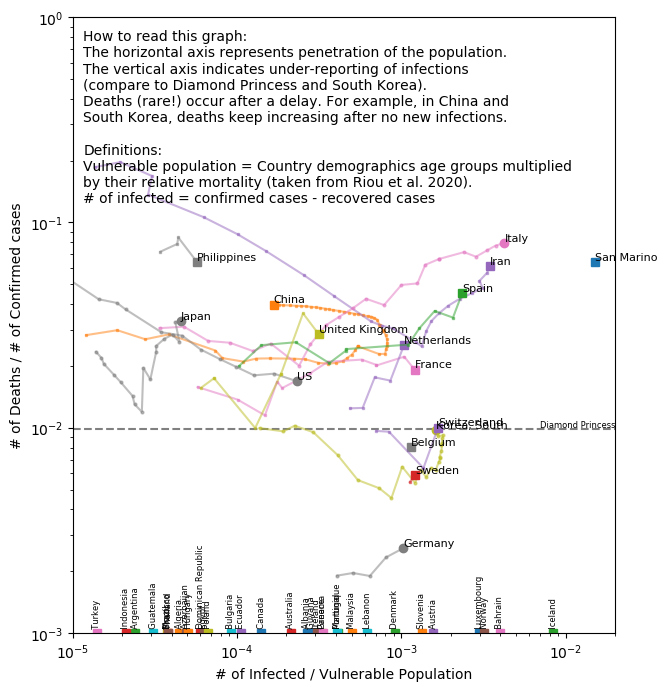
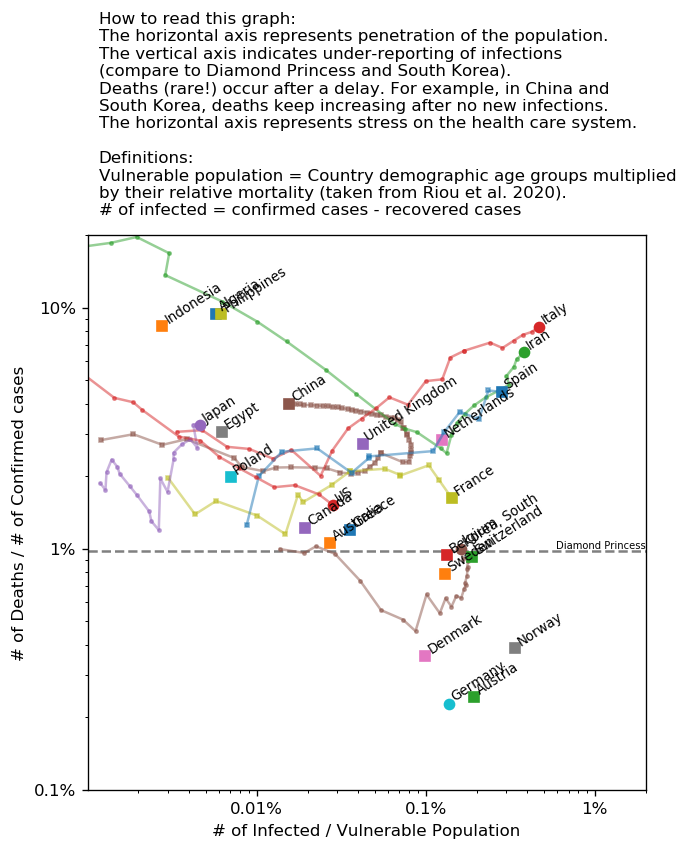
normalise better; beautifying

diff --git a/ratio.py b/ratio.py
@@ -60,14 +60,16 @@ pop = pandas.concat([
 
 beds = pandas.read_csv('UNdata_Export_hospitalbeds.csv')
 
+marked_countries = ['US', 'Germany', 'Japan', 'Italy', 'Korea, South', 'Iran']
+
 #print("countries:", sorted(set(pop["Country or Area"])))
 
-a = plt.figure(figsize=(7, 8))
+a = plt.figure(figsize=(6, 6))
 ax = a.gca()
-b = plt.figure(figsize=(7, 8))
+b = plt.figure(figsize=(6, 6))
 bx = b.gca()
 
-min_dead = 6
+#min_dead = 4
 
 print("per-country extraction:")
 print()
@@ -78,21 +80,21 @@ for (i, row1), (_, row2), (_, row3) in zip(d1.iterrows(), d2.iterrows(), d3.iter
 	timeseries_dead = np.array(row2[4:], dtype=int)
 	timeseries_recovered = np.array(row3[4:], dtype=int)
 	country = row1.name
-	if timeseries_dead.max() < 1:
-		#print("skipping", country, "not enough dead", timeseries_dead.max())
-		continue
 	pop_country = pop[pop["Country or Area"] == country_name_replacement.get(row1.name, row1.name)]
 	if len(pop_country) == 0: # or pop_country.Year.dtype.char == 'O':
 		print("skipping", country, "no population data")
 		continue
 	beds_country = beds[beds["Country or Area"] == country_name_replacement.get(row1.name, row1.name)]
 	year = pandas.to_numeric(beds_country["Year(s)"])
-	beds_recent = np.array(beds_country.Value[year == year.max()])
+	# from "number of beds per 10000 people" compute "number of beds per person":
+	beds_recent = np.array(beds_country.Value[year == year.max()]) / 10000
 	if len(beds_recent) == 0:
 		beds_recent = 0
+		#print("skipping", country, "no bed data")
+		#continue
 	else:
 		beds_recent = beds_recent[0]
-	
+
 	#if country not in ['US', 'Germany', 'Japan', 'Italy', 'Korea, South']:
 	#	continue
 	
@@ -102,99 +104,118 @@ for (i, row1), (_, row2), (_, row3) in zip(d1.iterrows(), d2.iterrows(), d3.iter
 		for ages in agegroups]
 	vulnerable_number = np.array(num_people) * agegroups_mortality
 	
-	print("%20s %4d %6d %14d %.2f%%" % (country, beds_recent, sum(timeseries_dead), 
+	print("%20s %6d %6d %14d %.2f%%" % (country, beds_recent, max(timeseries_dead), 
 		sum(num_people), sum(vulnerable_number) * 100 / sum(num_people)))
+	
+	# for small countries, require a higher number of dead, 
+	# otherwise the estimates are all over the place
+	min_dead = max(4,  1 * 2 * 100000 / sum(vulnerable_number))
+	
+	if timeseries_dead.max() < min_dead:
+		print("skipping", country, "not enough dead", timeseries_dead.max(), 1 * 2 * 100000 / sum(vulnerable_number))
+		continue
 	
 	timeseries_cases = timeseries_reported - timeseries_recovered
 	
 	mask = timeseries_dead >= min_dead
+	if not mask.any():
+		print("skipping", country, "not enough dead", timeseries_dead.max())
+	
 	#mask = np.logical_and(timeseries_dead >= 3, timeseries_reported / vulnerable_number.sum() > 1e-5)
 	x = timeseries_cases[mask] / vulnerable_number.sum()
 	y = timeseries_dead[mask] / timeseries_reported[mask]
 	if mask.any():
-		l, = ax.plot(x, y,
-			'o-' if country in ['US', 'Germany', 'Japan', 'Italy', 'Korea, South'] else 's-', ms=2,
-			label=country, alpha=0.5)
+		l, = ax.plot(x[-1], y[-1],
+			'o' if country in marked_countries else 's')
+		ax.text(x[-1], y[-1], country, va='bottom', ha='left', size=8, rotation=33)
+		if mask.sum() > 10:
+			ax.plot(x, y,
+				'o-' if country in marked_countries else 's-', ms=2,
+				label=country, alpha=0.5, color=l.get_color())
 	
-	if len(y) > 0:
-		ax.plot(x[-1], y[-1],
-			'o' if country in ['US', 'Germany', 'Japan', 'Italy', 'Korea, South'] else 's',
-			color=l.get_color())
-		ax.text(x[-1], y[-1], country, va='bottom', ha='left', size=8)
 	elif timeseries_cases[-1] / vulnerable_number.sum() > 1e-5:
 		ax.plot(timeseries_cases[-1] / vulnerable_number.sum(), 1e-3,
-			'o' if country in ['US', 'Germany', 'Japan', 'Italy', 'Korea, South'] else 's')
+			'o' if country in marked_countries else 's')
 		ax.text(timeseries_cases[-1] / vulnerable_number.sum(), 1e-3,
 			'  ' + country, va='bottom', ha='center', size=6, rotation=90)
 
 	x = timeseries_cases[mask] / vulnerable_number.sum() / beds_recent
 	y = timeseries_dead[mask] / timeseries_reported[mask]
 	if mask.any():
-		l, = bx.plot(x, y,
-			'o-' if country in ['US', 'Germany', 'Japan', 'Italy', 'Korea, South'] else 's-', ms=2,
-			label=country, alpha=0.5)
-	
-	if len(y) > 0:
-		bx.plot(x[-1], y[-1],
-			'o' if country in ['US', 'Germany', 'Japan', 'Italy', 'Korea, South'] else 's',
-			color=l.get_color())
+		l, = bx.plot(x[-1], y[-1],
+			'o' if country in marked_countries else 's',
+			)
 		bx.text(x[-1], y[-1], country, va='bottom', ha='left', size=8, rotation=33)
-	elif timeseries_cases[-1] / vulnerable_number.sum() / beds_recent > 1e-7:
+		if mask.sum() > 10:
+			bx.plot(x, y,
+				'o-' if country in marked_countries else 's-', ms=2,
+				label=country, alpha=0.5, color=l.get_color())
+	
+	elif timeseries_cases[-1] / vulnerable_number.sum() / beds_recent > 1e-3 or True:
 		bx.plot(timeseries_cases[-1] / vulnerable_number.sum() / beds_recent, 1e-3,
-			'o' if country in ['US', 'Germany', 'Japan', 'Italy', 'Korea, South'] else 's')
+			'o' if country in marked_countries else 's')
 		bx.text(timeseries_cases[-1] / vulnerable_number.sum() / beds_recent, 1e-3,
 			'  ' + country, va='bottom', ha='center', size=6, rotation=90)
 
 plt.sca(ax)
-ax.text(0.02, 0.98, """How to read this graph:
+ax.text(0.02, 1.0, """How to read this graph:
 The horizontal axis represents penetration of the population.
 The vertical axis indicates under-reporting of infections
 (compare to Diamond Princess and South Korea).
 Deaths (rare!) occur after a delay. For example, in China and 
 South Korea, deaths keep increasing after no new infections.
-
-Definitions:
-Vulnerable population = Country demographics age groups multiplied 
-by their relative mortality (taken from Riou et al. 2020).
-# of infected = confirmed cases - recovered cases
-""", va='top', ha='left', transform=ax.transAxes)
-plt.xlabel('# of Infected / Vulnerable Population')
-plt.ylabel('# of Deaths / # of Confirmed cases')
-plt.xscale('log')
-plt.yscale('log')
-plt.hlines(7/712, 1e-5, 2e-2, linestyles=['--'], color='gray')
-plt.text(2e-2, 7/712, 'Diamond Princess', ha='right', va='bottom', size=6)
-plt.ylim(1e-3, 1)
-plt.xlim(1e-5, 2e-2)
-#plt.legend(loc='best', ncol=3, prop=dict(size=8))
-plt.savefig('ratio.pdf', bbox_inches='tight')
-plt.savefig('ratio.png', bbox_inches='tight')
-plt.close()
-
-#plt.plot([1e-6, 1e-3], [5e-6/1e-6, 5e-6/1e-3], ':', color='gray', alpha=0.5)
-
-plt.sca(bx)
-bx.text(0.02, 0.98, """How to read this graph:
-The horizontal axis represents penetration of the population.
-The vertical axis indicates under-reporting of infections
-(compare to Diamond Princess and South Korea).
-Deaths (rare!) occur after a delay. For example, in China and 
-South Korea, deaths keep increasing after no new infections.
+The horizontal axis represents stress on the health care system.
 
 Definitions:
 Vulnerable population = Country demographic age groups multiplied 
 by their relative mortality (taken from Riou et al. 2020).
 # of infected = confirmed cases - recovered cases
-""", va='top', ha='left', transform=bx.transAxes)
-plt.xlabel('# of Infected / Vulnerable Population / # hospital beds per 10,000 people')
+""", va='bottom', ha='left', transform=ax.transAxes, size=10)
+
+plt.xlabel('# of Infected / Vulnerable Population')
 plt.ylabel('# of Deaths / # of Confirmed cases')
 plt.xscale('log')
 plt.yscale('log')
-plt.hlines(7/712, 1e-7, 1e-3, linestyles=['--'], color='gray')
-plt.text(1e-3, 7/712, 'Diamond Princess', ha='right', va='bottom', size=6)
-plt.ylim(1e-3, 1)
-plt.xlim(1e-7, 1e-3)
+plt.xticks([1e-4, 1e-3, 1e-2], ['0.01%', '0.1%', '1%'])
+plt.yticks([1e-3, 1e-2, 1e-1, 1], ['0.1%', '1%', '10%', '100%'])
+plt.hlines(7/712, 1e-5, 2e-2, linestyles=['--'], color='gray')
+plt.text(2e-2, 7/712, 'Diamond Princess', ha='right', va='bottom', size=6)
+plt.ylim(1e-3, 0.2)
+plt.xlim(1e-5, 2e-2)
+#plt.legend(loc='best', ncol=3, prop=dict(size=8))
+plt.savefig('ratio.pdf', bbox_inches='tight')
+plt.savefig('ratio.png', bbox_inches='tight', dpi=120)
+plt.close()
+
+#plt.plot([1e-6, 1e-3], [5e-6/1e-6, 5e-6/1e-3], ':', color='gray', alpha=0.5)
+
+plt.sca(bx)
+bx.text(0.98, 0.98, "@JohannesBuchner (non-expert)", va='top', ha='right',
+	transform=bx.transAxes, size=8, color="gray")
+
+bx.text(0.02, 1.0, """How to read this graph:
+The vertical axis indicates under-reporting of infections
+(compare to Diamond Princess and South Korea).
+Deaths (rare!) occur after a delay. For example, in China and 
+South Korea, deaths keep increasing after no new infections.
+The horizontal axis represents stress on the health care system.
+
+Definitions:
+Vulnerable population = Country demographic age groups multiplied 
+by their relative mortality (taken from Riou et al. 2020).
+# of infected = confirmed cases - recovered cases
+""", va='bottom', ha='left', transform=bx.transAxes, size=10)
+plt.xlabel("# of Infected / Vulnerable Population / # hospital beds per person\n\nHealth care system stress $\\rightarrow$")
+plt.ylabel('reported mortality $\\rightarrow$\n\n# of Deaths / # of Confirmed cases')
+plt.xscale('log')
+plt.yscale('log')
+plt.xticks([1e-2, 1e-1, 1], ['1%', '10%', '100%'])
+plt.yticks([1e-3, 1e-2, 1e-1, 1], ['0.1%', '1%', '10%', '100%'])
+plt.hlines(7/712, 1e-3, 8, linestyles=['--'], color='gray')
+plt.text(8, 7/712, 'Diamond Princess', ha='right', va='bottom', size=6)
+plt.ylim(1e-3, 0.2)
+plt.xlim(1e-3, 8)
 #plt.legend(loc='best', ncol=3, prop=dict(size=8))
 plt.savefig('ratio_beds.pdf', bbox_inches='tight')
-plt.savefig('ratio_beds.png', bbox_inches='tight')
+plt.savefig('ratio_beds.png', bbox_inches='tight', dpi=120)
 plt.close()
